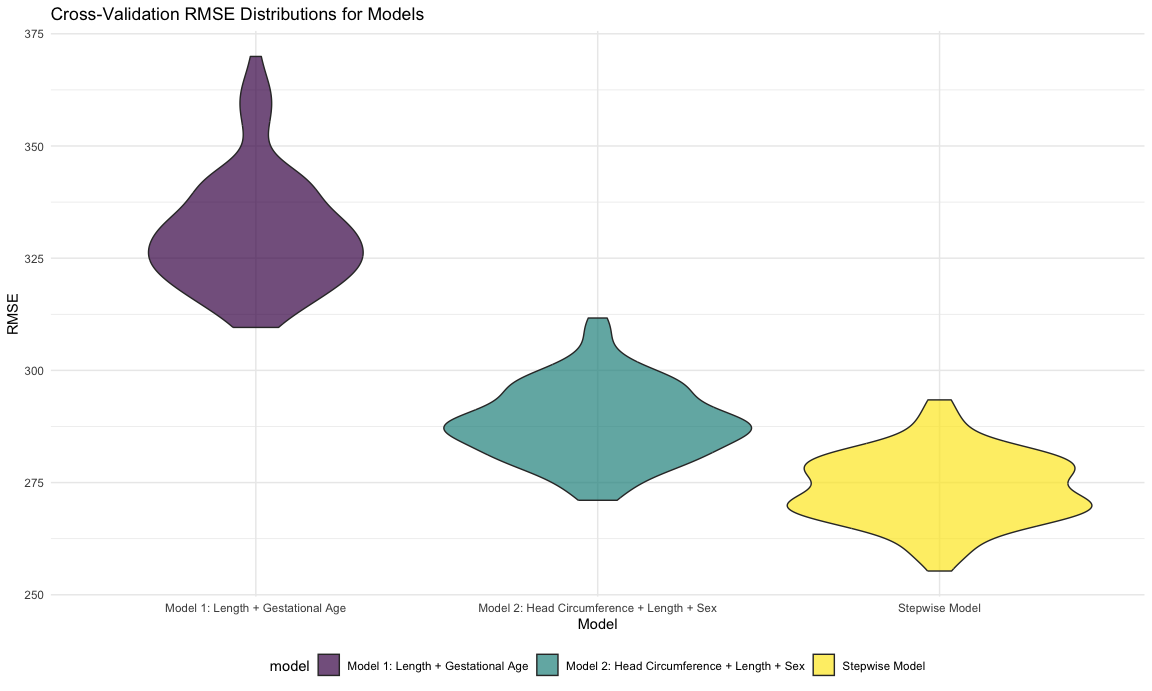
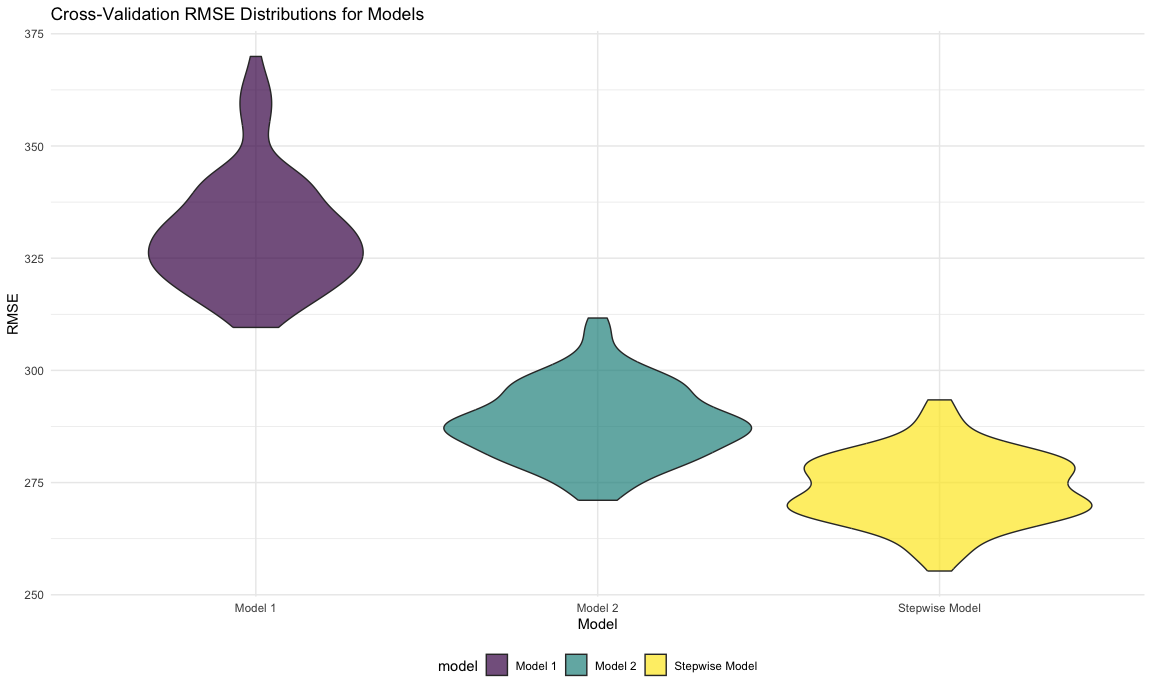
edit figures

diff --git a/p8105_hw6_ys3766.md b/p8105_hw6_ys3766.md
@@ -444,8 +444,8 @@ cv_results %>%
   select(rmse_1, rmse_2, rmse_stepwise) %>%
   pivot_longer(cols = everything(), names_to = "model", values_to = "rmse") %>%
   mutate(model = recode(model,
-                        "rmse_1" = "Model 1: Length + Gestational Age",
-                        "rmse_2" = "Model 2: Head Circumference + Length + Sex",
+                        "rmse_1" = "Model 1",
+                        "rmse_2" = "Model 2",
                         "rmse_stepwise" = "Stepwise Model")) %>%
   ggplot(aes(x = model, y = rmse, fill = model)) +
   geom_violin(alpha = 0.7) +
